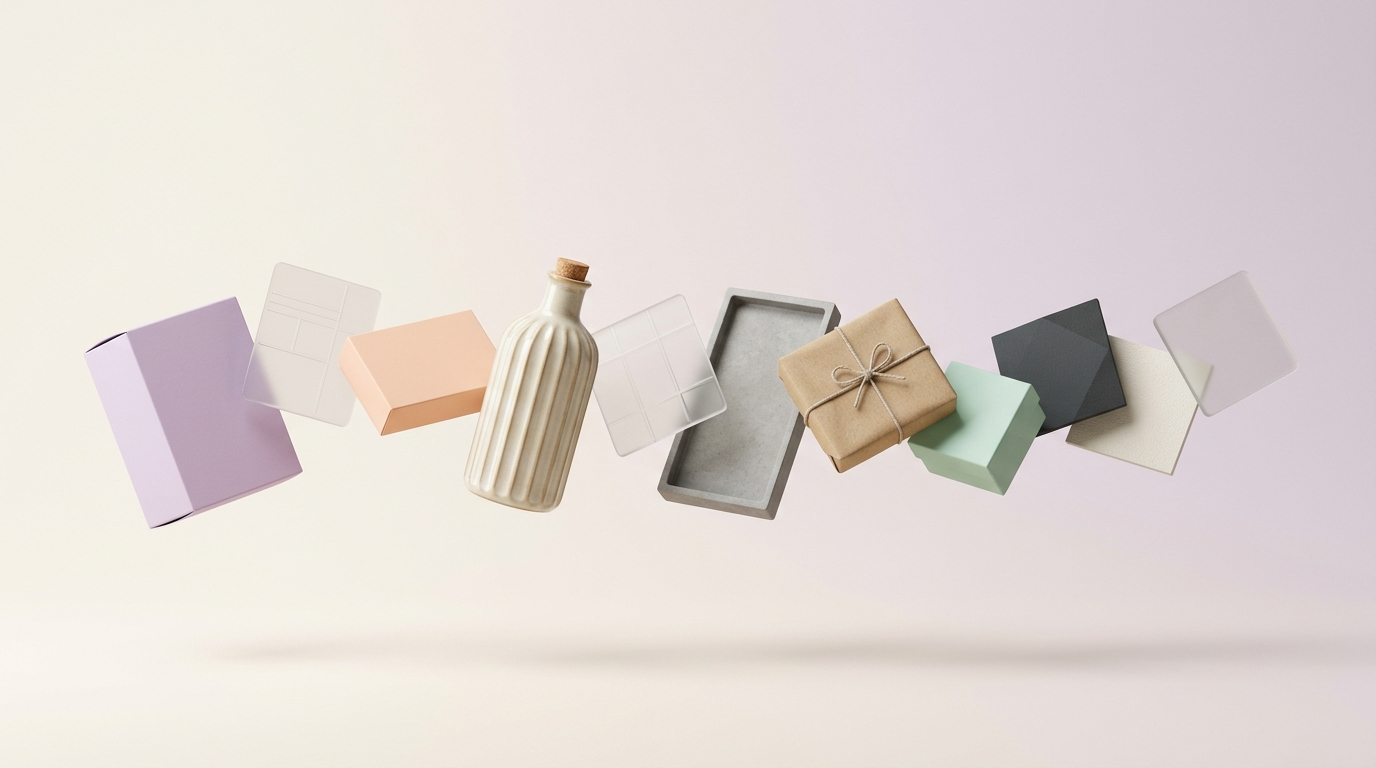
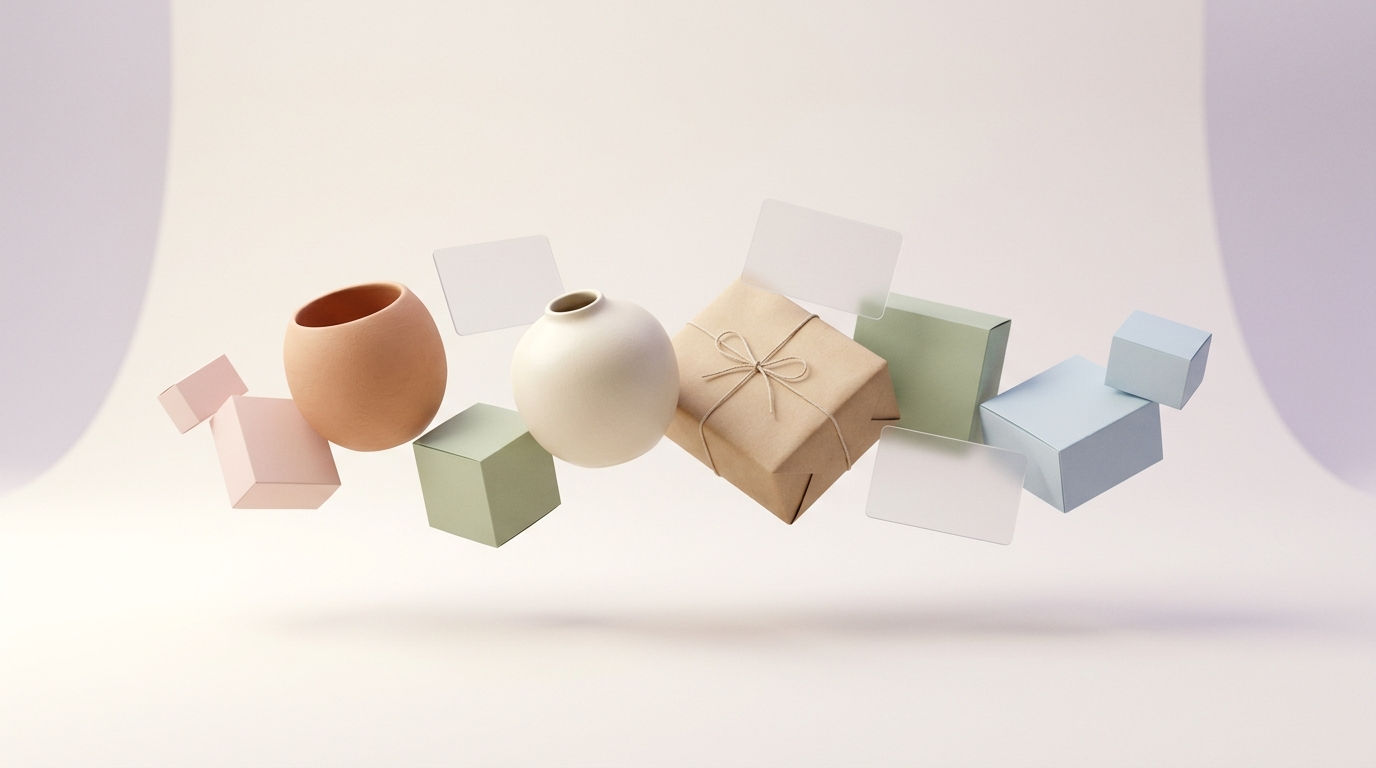
Apply obsidian texture background to service cards and use clean column-free ecosystem visual

Changed region(s): [[0.0, 0.0, 0.9375, 0.7188], [0.5, 0.7812, 0.875, 0.875], [0.4062, 0.7812, 0.4375, 0.8125]]

diff --git a/src/components/ProductEcosystem.jsx b/src/components/ProductEcosystem.jsx
@@ -1,5 +1,5 @@
 import React from 'react';
-import { ArrowRight, Layers, Box, GraduationCap, Sparkles } from 'lucide-react';
+import { ArrowRight, Layers, Box, GraduationCap } from 'lucide-react';
 
 export default function ProductEcosystem({ onOpenConsultation }) {
   const pillars = [
@@ -40,7 +40,7 @@ export default function ProductEcosystem({ onOpenConsultation }) {
     >
       <div className="container" style={{ maxWidth: '1240px' }}>
 
-        {/* 3D Floating Product Ecosystem Visual (Top-Center) */}
+        {/* 3D Floating Product Ecosystem Visual (Top-Center) — Clean with no columns */}
         <div
           style={{
             position: 'relative',
@@ -78,7 +78,7 @@ export default function ProductEcosystem({ onOpenConsultation }) {
           >
             <img
               src="/assets/product-ecosystem.jpg"
-              alt="Floating 3D physical commerce objects and translucent tiles arranged in a graceful horizontal arc"
+              alt="Floating 3D physical commerce objects arranged in a graceful horizontal arc with clean surfaces and no columns"
               style={{
                 width: '100%',
                 height: 'auto',
@@ -91,7 +91,7 @@ export default function ProductEcosystem({ onOpenConsultation }) {
             />
           </div>
 
-          {/* Interactive Floating Micro-labels */}
+          {/* Floating Micro-labels */}
           <div
             style={{
               display: 'flex',
@@ -168,7 +168,7 @@ export default function ProductEcosystem({ onOpenConsultation }) {
           </div>
         </div>
 
-        {/* Three Pillar Cards */}
+        {/* Three Pillar Cards with Obsidian Texture Background */}
         <div
           style={{
             display: 'grid',
@@ -183,86 +183,136 @@ export default function ProductEcosystem({ onOpenConsultation }) {
               <a
                 key={pillar.num}
                 href={pillar.href}
+                className="pillar-card obsidian-card"
                 style={{
                   textDecoration: 'none',
-                  backgroundColor: 'var(--color-pure-white)',
-                  padding: '2.4rem 2rem',
-                  borderRadius: '16px',
-                  border: '1px solid rgba(23, 25, 30, 0.06)',
-                  boxShadow: '0 8px 30px rgba(16, 28, 53, 0.03)',
+                  position: 'relative',
+                  borderRadius: '18px',
+                  overflow: 'hidden',
+                  backgroundColor: '#07080B',
+                  border: '1px solid rgba(255, 255, 255, 0.12)',
+                  boxShadow: '0 16px 45px rgba(0, 0, 0, 0.25)',
                   transition: 'var(--transition-standard)',
                   display: 'flex',
                   flexDirection: 'column',
                   justifyContent: 'space-between',
-                  position: 'relative'
+                  minHeight: '320px'
                 }}
-                className="pillar-card"
               >
-                <div>
-                  <div style={{ display: 'flex', alignItems: 'center', justifyContent: 'space-between', marginBottom: '1.75rem' }}>
-                    <span
-                      style={{
-                        fontFamily: 'var(--font-sans)',
-                        fontSize: '0.8rem',
-                        fontWeight: 700,
-                        color: 'var(--color-ocean-blue)',
-                        letterSpacing: '0.08em'
-                      }}
-                    >
-                      {pillar.num}
-                    </span>
-                    <div
-                      style={{
-                        width: '38px',
-                        height: '38px',
-                        borderRadius: '50%',
-                        backgroundColor: 'var(--color-soft-lavender)',
-                        display: 'flex',
-                        alignItems: 'center',
-                        justifyContent: 'center',
-                        color: 'var(--color-midnight-navy)'
-                      }}
-                    >
-                      <IconComponent size={18} />
-                    </div>
-                  </div>
+                {/* Obsidian Texture Background Layer */}
+                <div
+                  className="obsidian-texture-layer"
+                  style={{
+                    position: 'absolute',
+                    inset: 0,
+                    backgroundImage: "url('/assets/obsidian-texture.jpg')",
+                    backgroundSize: 'cover',
+                    backgroundPosition: 'center',
+                    backgroundRepeat: 'no-repeat',
+                    opacity: 0.38,
+                    pointerEvents: 'none',
+                    zIndex: 0,
+                    transition: 'opacity 0.4s ease, transform 0.6s cubic-bezier(0.16, 1, 0.3, 1)'
+                  }}
+                />
 
-                  <h3
-                    style={{
-                      fontSize: '1.25rem',
-                      fontWeight: 600,
-                      color: 'var(--color-primary-text)',
-                      marginBottom: '0.75rem',
-                      letterSpacing: '-0.015em'
-                    }}
-                  >
-                    {pillar.title}
-                  </h3>
-
-                  <p
-                    style={{
-                      fontSize: '0.92rem',
-                      color: 'var(--color-secondary-text)',
-                      lineHeight: 1.6
-                    }}
-                  >
-                    {pillar.desc}
-                  </p>
-                </div>
-
+                {/* Subtle Gradient Overlay for Text Readability & Depth */}
                 <div
                   style={{
-                    marginTop: '2rem',
+                    position: 'absolute',
+                    inset: 0,
+                    background: 'linear-gradient(180deg, rgba(7, 8, 11, 0.62) 0%, rgba(9, 10, 14, 0.88) 100%)',
+                    pointerEvents: 'none',
+                    zIndex: 1
+                  }}
+                />
+
+                {/* Card Content Layer */}
+                <div
+                  style={{
+                    position: 'relative',
+                    zIndex: 2,
+                    padding: '2.4rem 2rem',
                     display: 'flex',
-                    alignItems: 'center',
-                    gap: '0.4rem',
-                    fontSize: '0.84rem',
-                    fontWeight: 600,
-                    color: 'var(--color-ocean-blue)'
+                    flexDirection: 'column',
+                    justifyContent: 'space-between',
+                    height: '100%'
                   }}
                 >
-                  <span>Explore Focus Area</span>
-                  <ArrowRight size={14} className="pillar-arrow" style={{ transition: 'transform 0.25s ease' }} />
+                  <div>
+                    {/* Top Badge & Icon */}
+                    <div style={{ display: 'flex', alignItems: 'center', justifyContent: 'space-between', marginBottom: '1.75rem' }}>
+                      <span
+                        style={{
+                          fontFamily: 'var(--font-sans)',
+                          fontSize: '0.82rem',
+                          fontWeight: 700,
+                          color: 'var(--color-sky-blue)',
+                          letterSpacing: '0.12em',
+                          textTransform: 'uppercase'
+                        }}
+                      >
+                        {pillar.num} // FOCUS
+                      </span>
+
+                      <div
+                        style={{
+                          width: '40px',
+                          height: '40px',
+                          borderRadius: '50%',
+                          backgroundColor: 'rgba(255, 255, 255, 0.08)',
+                          border: '1px solid rgba(255, 255, 255, 0.16)',
+                          display: 'flex',
+                          alignItems: 'center',
+                          justifyContent: 'center',
+                          color: 'var(--color-sky-blue)',
+                          backdropFilter: 'blur(8px)',
+                          WebkitBackdropFilter: 'blur(8px)'
+                        }}
+                      >
+                        <IconComponent size={18} />
+                      </div>
+                    </div>
+
+                    <h3
+                      style={{
+                        fontSize: '1.35rem',
+                        fontWeight: 600,
+                        color: 'var(--color-pure-white)',
+                        marginBottom: '0.85rem',
+                        letterSpacing: '-0.02em',
+                        lineHeight: 1.25
+                      }}
+                    >
+                      {pillar.title}
+                    </h3>
+
+                    <p
+                      style={{
+                        fontSize: '0.92rem',
+                        color: 'rgba(220, 239, 248, 0.8)',
+                        lineHeight: 1.62
+                      }}
+                    >
+                      {pillar.desc}
+                    </p>
+                  </div>
+
+                  {/* Bottom Action Indicator */}
+                  <div
+                    style={{
+                      marginTop: '2.25rem',
+                      display: 'flex',
+                      alignItems: 'center',
+                      gap: '0.45rem',
+                      fontSize: '0.86rem',
+                      fontWeight: 600,
+                      color: 'var(--color-sky-blue)'
+                    }}
+                  >
+                    <span>Explore Focus Area</span>
+                    <ArrowRight size={15} className="pillar-arrow" style={{ transition: 'transform 0.25s ease' }} />
+                  </div>
                 </div>
               </a>
             );
@@ -272,13 +322,17 @@ export default function ProductEcosystem({ onOpenConsultation }) {
       </div>
 
       <style>{`
-        .pillar-card:hover {
-          transform: translateY(-4px);
-          box-shadow: 0 16px 40px rgba(16, 28, 53, 0.08);
-          border-color: rgba(22, 125, 181, 0.25);
+        .obsidian-card:hover {
+          transform: translateY(-6px);
+          border-color: rgba(119, 199, 234, 0.45) !important;
+          box-shadow: 0 24px 55px rgba(0, 0, 0, 0.45), 0 0 25px rgba(119, 199, 234, 0.18) !important;
         }
-        .pillar-card:hover .pillar-arrow {
-          transform: translateX(4px);
+        .obsidian-card:hover .obsidian-texture-layer {
+          opacity: 0.58 !important;
+          transform: scale(1.04);
+        }
+        .obsidian-card:hover .pillar-arrow {
+          transform: translateX(5px);
         }
       `}</style>
     </section>
